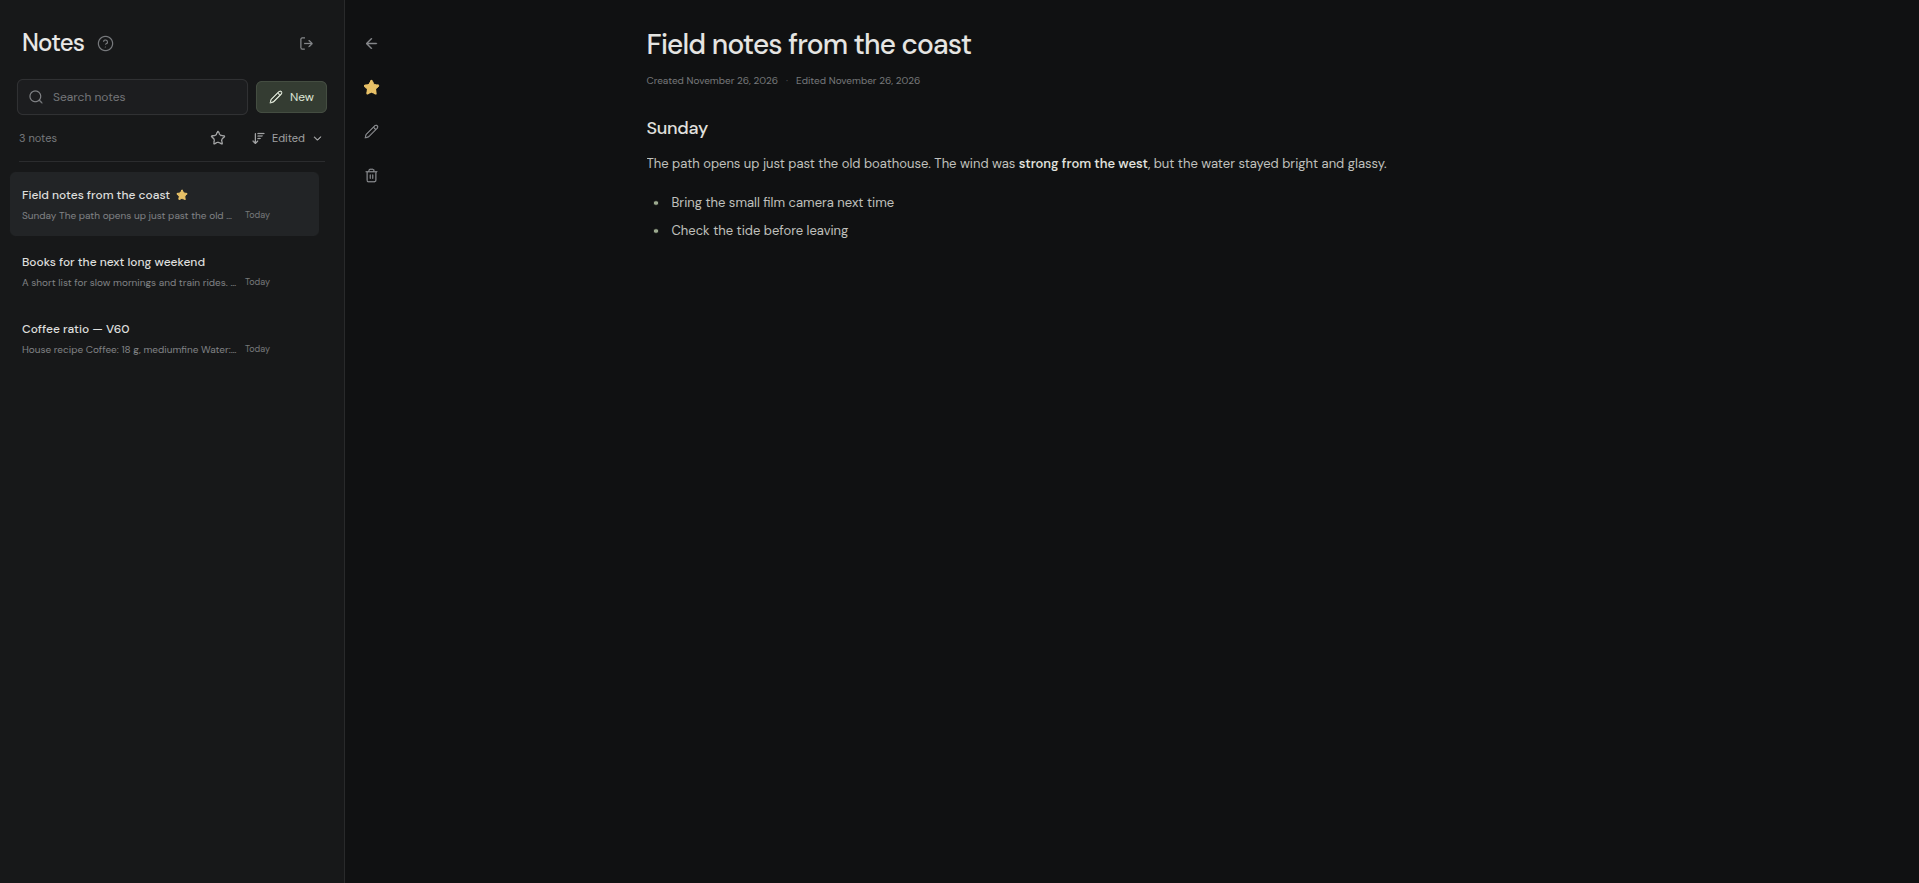
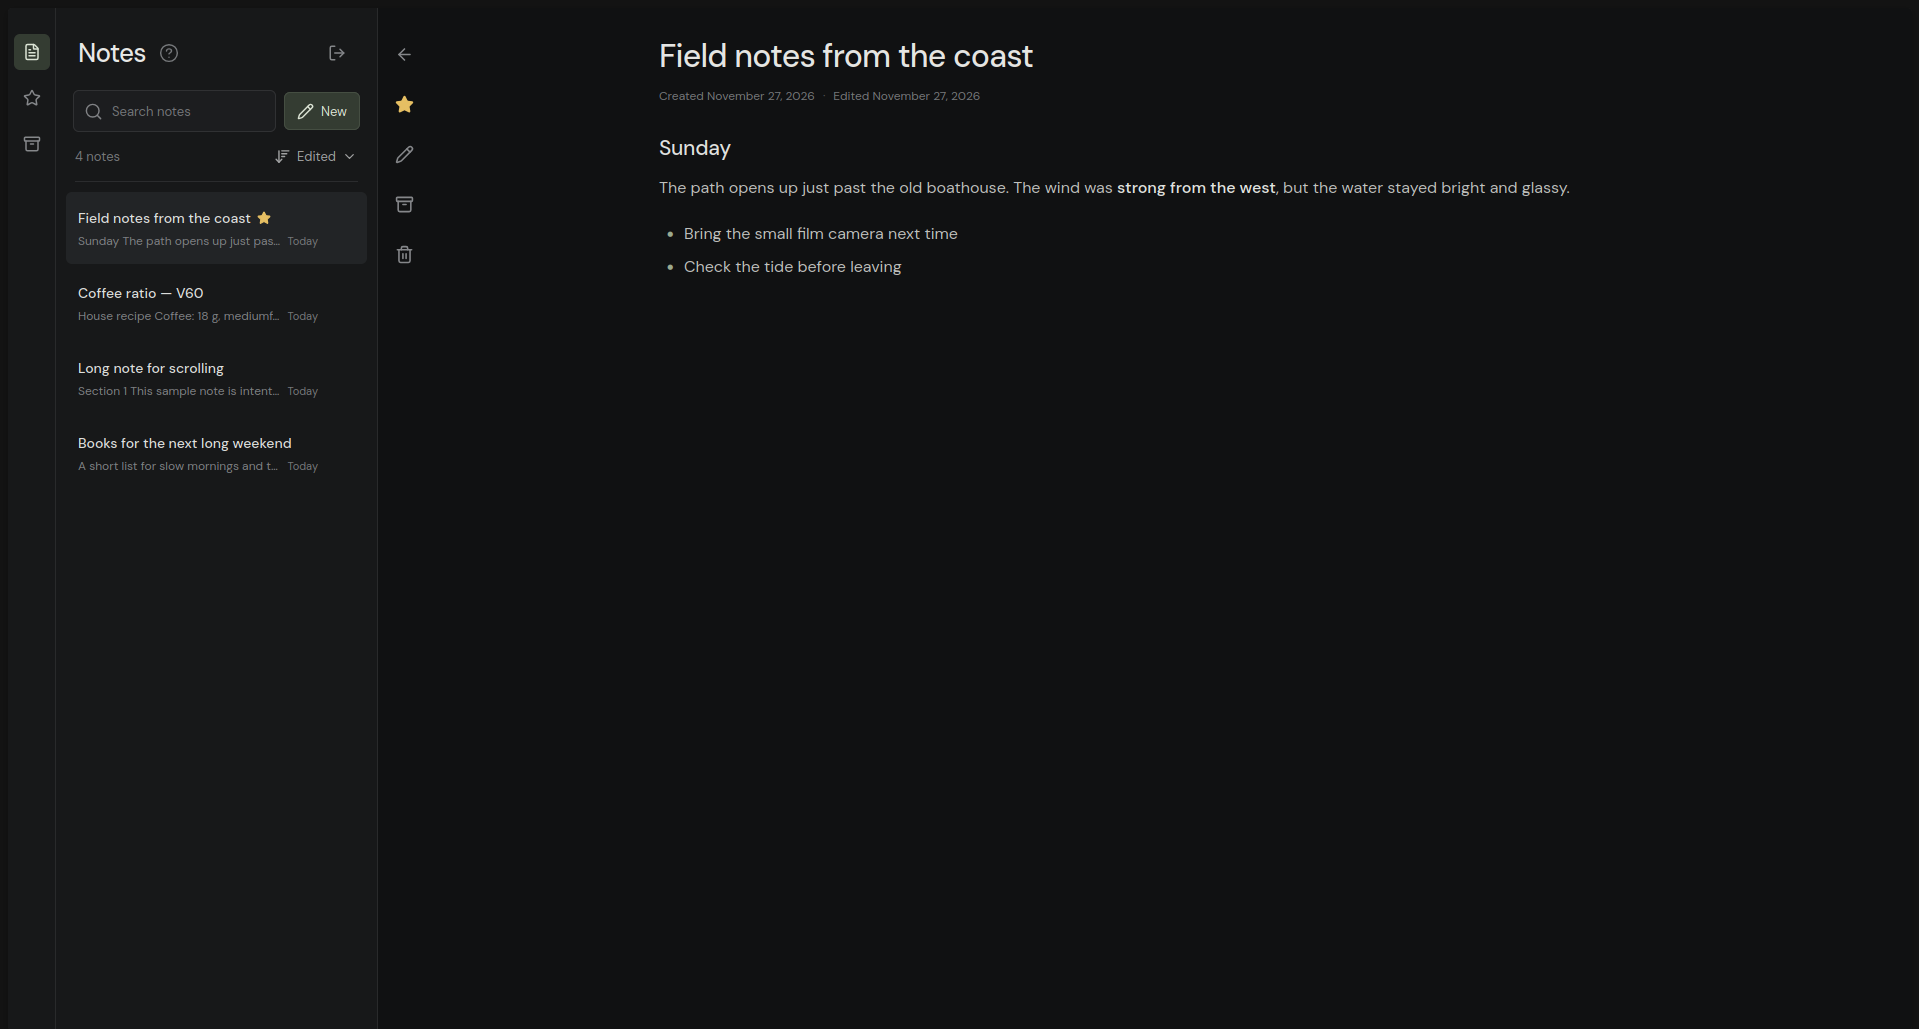
Toolbar keybinds

diff --git a/app/routes/home.tsx b/app/routes/home.tsx
@@ -47,6 +47,7 @@ type Note = {
 
 type SortMode = "edited" | "created";
 type FilterMode = "all" | "favorites" | "archived";
+const filterOrder: FilterMode[] = ["all", "favorites", "archived"];
 
 function fuzzyScore(query: string, value: string) {
   const normalizedQuery = query.toLowerCase().trim();
@@ -149,6 +150,7 @@ export default function Home() {
   const sortControlRef = useRef<HTMLDivElement>(null);
   const searchInputRef = useRef<HTMLInputElement>(null);
   const noteListRef = useRef<HTMLDivElement>(null);
+  const filterSelectionRef = useRef<FilterMode | null>(null);
   const [helpOpen, setHelpOpen] = useState(false);
   const loginError = actionData && "error" in actionData ? actionData.error : undefined;
 
@@ -199,6 +201,7 @@ export default function Home() {
     setDraftContent("");
     setIsEditing(true);
     setMobileToolbarVisible(true);
+    filterSelectionRef.current = "all";
     setFilterMode("all");
     showToast("New note created");
   }, [createFetcher.data]);
@@ -288,6 +291,15 @@ export default function Home() {
     setIsEditing(false);
   }
 
+  function selectFilter(mode: FilterMode) {
+    if (mode !== filterMode) {
+      setFilterMode(mode);
+      return;
+    }
+    if (visibleNotes[0]) openNote(visibleNotes[0]);
+    else backToList();
+  }
+
   function createNote() {
     if (isEditing) saveNote();
     createFetcher.submit({ intent: "create" }, { method: "post" });
@@ -345,6 +357,13 @@ export default function Home() {
   }
 
   useEffect(() => {
+    if (filterSelectionRef.current === filterMode) return;
+    filterSelectionRef.current = filterMode;
+    if (visibleNotes[0]) openNote(visibleNotes[0]);
+    else backToList();
+  }, [filterMode, visibleNotes, isEditing, selectedNote, draftTitle, draftContent]);
+
+  useEffect(() => {
     function handleKeyDown(event: KeyboardEvent) {
       if ((event.ctrlKey || event.metaKey) && event.key.toLowerCase() === "s" && isEditing) {
         event.preventDefault();
@@ -367,6 +386,18 @@ export default function Home() {
         target instanceof HTMLElement &&
         (target.isContentEditable || target.closest("input, textarea, select"));
       if (isTyping || helpOpen || deleteTarget || sortMenuOpen) return;
+
+      const hasModifier = event.altKey || event.ctrlKey || event.metaKey || event.shiftKey;
+      const isNextFilterKey = event.key.toLowerCase() === "l" || event.key === "ArrowRight";
+      const isPreviousFilterKey = event.key.toLowerCase() === "h" || event.key === "ArrowLeft";
+      if (!hasModifier && (isNextFilterKey || isPreviousFilterKey)) {
+        event.preventDefault();
+        const currentIndex = filterOrder.indexOf(filterMode);
+        const offset = isNextFilterKey ? 1 : -1;
+        const nextIndex = Math.max(0, Math.min(filterOrder.length - 1, currentIndex + offset));
+        setFilterMode(filterOrder[nextIndex]);
+        return;
+      }
 
       const isNextNoteKey = event.key === "ArrowDown" || event.key === "j";
       const isPreviousNoteKey = event.key === "ArrowUp" || event.key === "k";
@@ -410,6 +441,25 @@ export default function Home() {
       } else if (event.key === "/") {
         event.preventDefault();
         searchInputRef.current?.focus();
+      } else if (!hasModifier && event.key.toLowerCase() === "d" && selectedNote) {
+        event.preventDefault();
+        requestDelete(selectedNote.id);
+      } else if (
+        !hasModifier &&
+        event.key.toLowerCase() === "s" &&
+        selectedNote &&
+        favoriteFetcher.state === "idle"
+      ) {
+        event.preventDefault();
+        toggleFavorite(selectedNote.id);
+      } else if (
+        !hasModifier &&
+        event.key.toLowerCase() === "a" &&
+        selectedNote &&
+        archiveFetcher.state === "idle"
+      ) {
+        event.preventDefault();
+        toggleArchive(selectedNote);
       } else if (event.key.toLowerCase() === "n") {
         event.preventDefault();
         createNote();
@@ -428,6 +478,8 @@ export default function Home() {
     deleteTarget,
     draftContent,
     draftTitle,
+    favoriteFetcher.state,
+    filterMode,
     helpOpen,
     isEditing,
     search,
@@ -435,6 +487,7 @@ export default function Home() {
     selectedNote,
     sortMenuOpen,
     visibleNotes,
+    archiveFetcher.state,
   ]);
 
   if (!loadedNotes) return <LoginPage error={loginError} />;
@@ -448,7 +501,7 @@ export default function Home() {
             aria-label="All notes"
             title="All notes"
             aria-pressed={filterMode === "all"}
-            onClick={() => setFilterMode("all")}
+            onClick={() => selectFilter("all")}
           >
             <FileText size={18} />
           </button>
@@ -457,7 +510,7 @@ export default function Home() {
             aria-label="Starred notes"
             title="Starred notes"
             aria-pressed={filterMode === "favorites"}
-            onClick={() => setFilterMode("favorites")}
+            onClick={() => selectFilter("favorites")}
           >
             <Star size={18} fill={filterMode === "favorites" ? "currentColor" : "none"} />
           </button>
@@ -466,7 +519,7 @@ export default function Home() {
             aria-label="Archived notes"
             title="Archived notes"
             aria-pressed={filterMode === "archived"}
-            onClick={() => setFilterMode("archived")}
+            onClick={() => selectFilter("archived")}
           >
             <Archive size={18} />
           </button>
@@ -794,6 +847,40 @@ export default function Home() {
                   <kbd>E</kbd>
                 </dt>
                 <dd>Edit selected note</dd>
+              </div>
+              <div>
+                <dt>
+                  <kbd>A</kbd>
+                </dt>
+                <dd>Archive or unarchive selected note</dd>
+              </div>
+              <div>
+                <dt>
+                  <kbd>D</kbd>
+                </dt>
+                <dd>Delete selected note</dd>
+              </div>
+              <div>
+                <dt>
+                  <kbd>S</kbd>
+                </dt>
+                <dd>Star or unstar selected note</dd>
+              </div>
+              <div>
+                <dt>
+                  <kbd>H</kbd>
+                  <span>/</span>
+                  <kbd>←</kbd>
+                </dt>
+                <dd>Previous filter</dd>
+              </div>
+              <div>
+                <dt>
+                  <kbd>L</kbd>
+                  <span>/</span>
+                  <kbd>→</kbd>
+                </dt>
+                <dd>Next filter</dd>
               </div>
               <div>
                 <dt>

diff --git a/README.md b/README.md
@@ -1,6 +1,14 @@
 # Notes
 
-Self hosted single-login markdown notes app.
+Minimal self hosted single-login markdown notes app.
+
+**Features:**
+
+- Markdown rendering
+- Vim mode
+- Keybinds for all features
+- Favorites and archiving
+- Ergonomic mobile UI
 
 <img src=".github/assets/screenshot.png">
 
